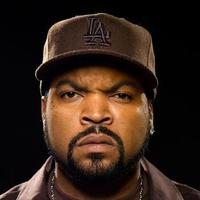
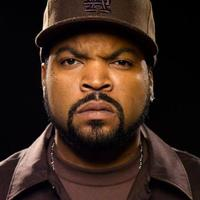
Fixed default crop on profile pic upload

diff --git a/app/assets/stylesheets/custom/dashboard.css.scss b/app/assets/stylesheets/custom/dashboard.css.scss
@@ -51,3 +51,12 @@ a:hover p.profile-pic-text {
 .big-icon {
   font-size: 3em;
 }
+
+.cropbox-container {
+  text-align: center;
+}
+
+.cropbox {
+  display: inline-block;
+  width: 90%;
+}

diff --git a/app/uploaders/profile_pic_uploader.rb b/app/uploaders/profile_pic_uploader.rb
@@ -25,7 +25,24 @@ class ProfilePicUploader < CarrierWave::Uploader::Base
   # end
 
   # Process files as they are uploaded:
-  # process :scale => [200, 300]
+  # process :save_original_and_create_centered_thumbnail
+
+  #  def save_original_and_create_centered_thumbnail
+  #  end
+
+
+
+
+  #     process :do_stuff => 10.0
+
+  #     def do_stuff(blur_factor)
+  #       manipulate! do |img|
+  #         img = img.sepiatone
+  #         img = img.auto_orient
+  #         img = img.radial_blur blur_factor
+  #       end
+  #     end
+  #   end
   #
   # def scale(width, height)
   #   # do something
@@ -51,6 +68,8 @@ class ProfilePicUploader < CarrierWave::Uploader::Base
         h = model.crop_h.to_i
         img.crop!(x, y, w, h)
       end
+    else
+      resize_to_fill(500,500)
     end
   end
 
